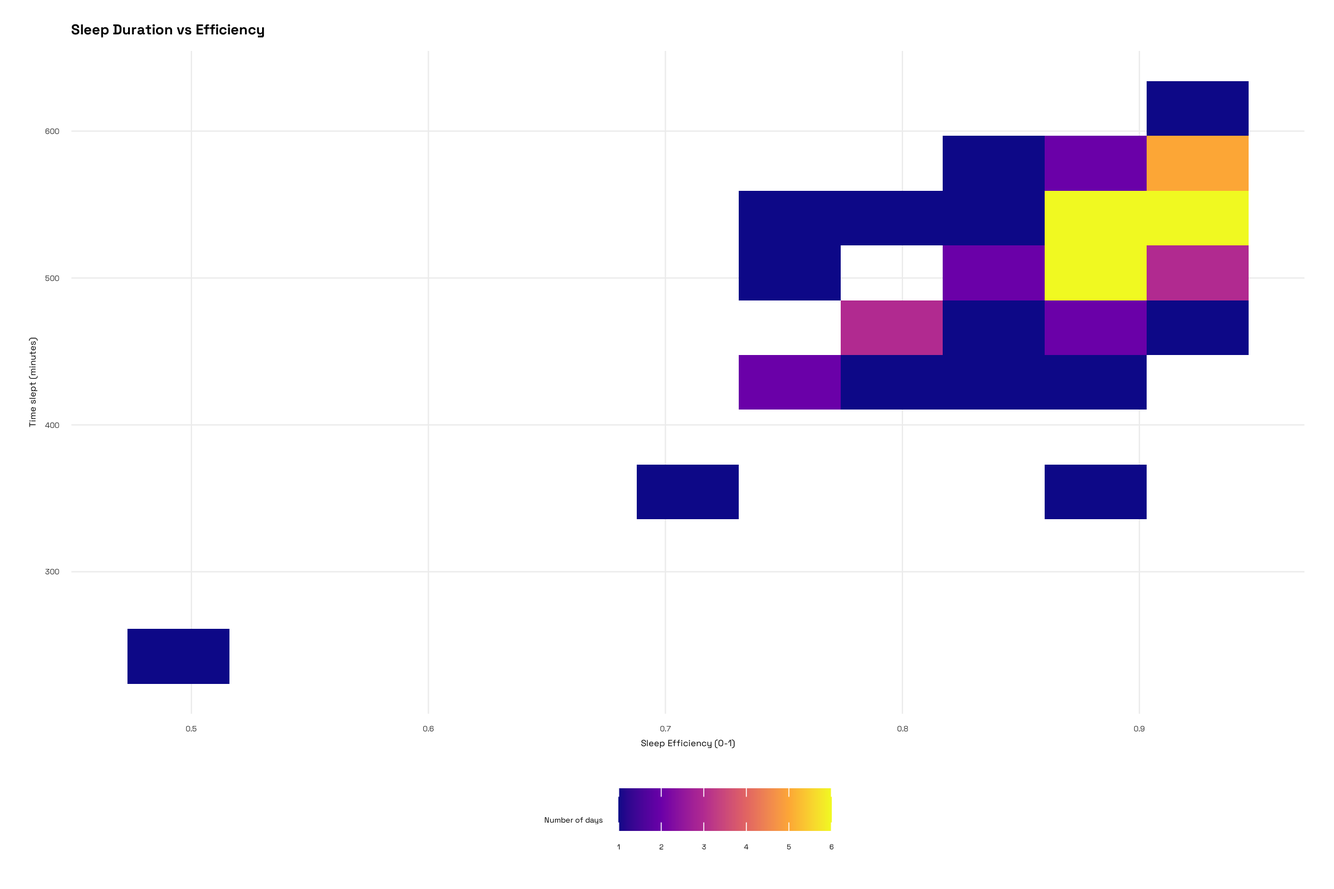
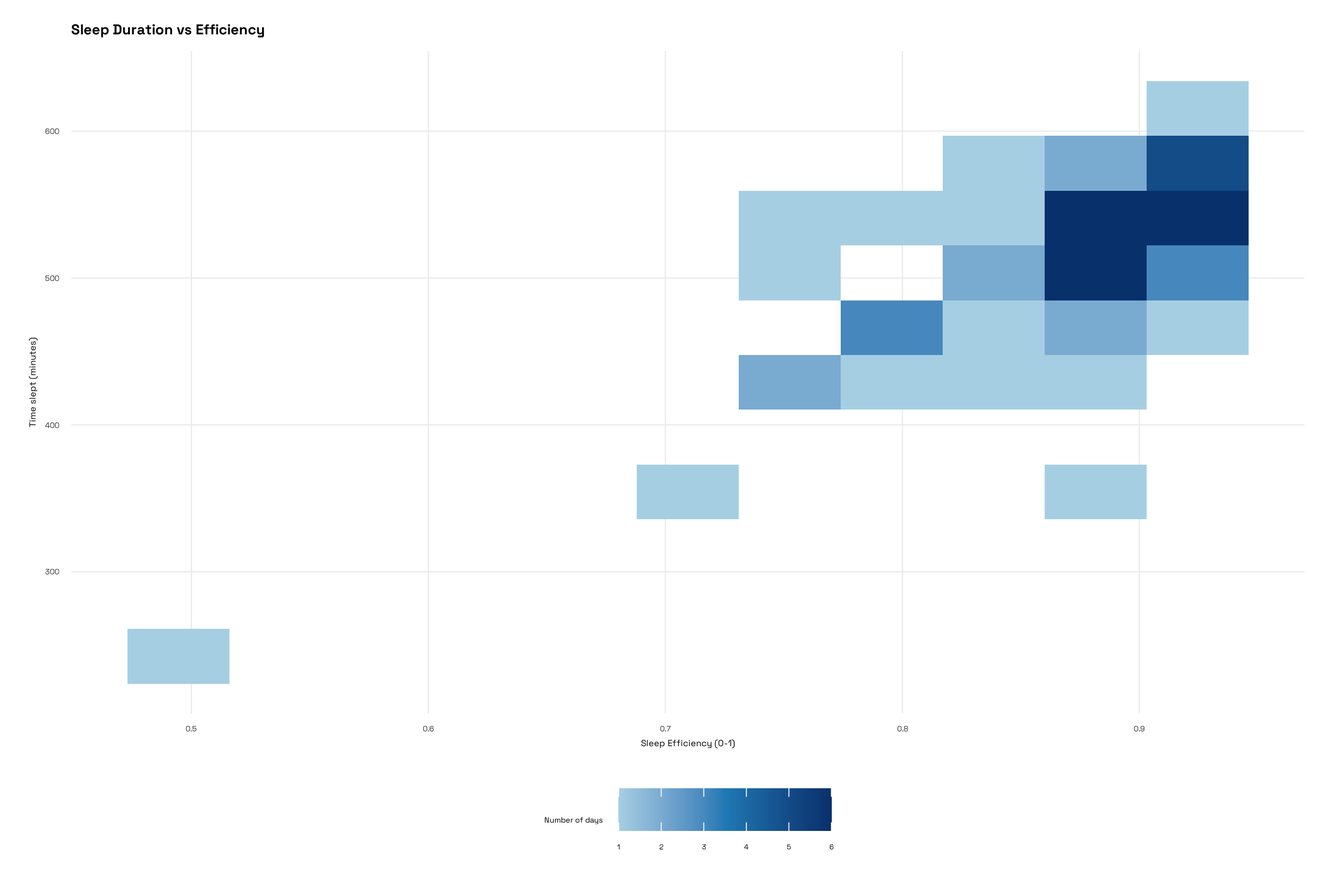
created custom color pallete

diff --git a/Code_files/my_code.html b/Code_files/my_code.html
@@ -183,33 +183,45 @@ pre > code.sourceCode > span > a:first-child::before { text-decoration: underlin
 <span id="cb4-6"><a href="#cb4-6" aria-hidden="true" tabindex="-1"></a><span class="co"># Activate showtext so ggplot can render fonts</span></span>
 <span id="cb4-7"><a href="#cb4-7" aria-hidden="true" tabindex="-1"></a><span class="fu">showtext_auto</span>()</span>
 <span id="cb4-8"><a href="#cb4-8" aria-hidden="true" tabindex="-1"></a></span>
-<span id="cb4-9"><a href="#cb4-9" aria-hidden="true" tabindex="-1"></a><span class="co"># Create a reusable base theme for all plots</span></span>
-<span id="cb4-10"><a href="#cb4-10" aria-hidden="true" tabindex="-1"></a>base_theme <span class="ot">&lt;-</span> <span class="fu">theme_minimal</span>(<span class="at">base_family =</span> <span class="st">"space"</span>) <span class="sc">+</span></span>
-<span id="cb4-11"><a href="#cb4-11" aria-hidden="true" tabindex="-1"></a>  <span class="fu">theme</span>(</span>
-<span id="cb4-12"><a href="#cb4-12" aria-hidden="true" tabindex="-1"></a>    <span class="co"># Main title styling </span></span>
-<span id="cb4-13"><a href="#cb4-13" aria-hidden="true" tabindex="-1"></a>    <span class="at">plot.title =</span> (<span class="fu">element_text</span>(<span class="at">face =</span> <span class="st">"bold"</span>, <span class="at">size =</span> <span class="dv">18</span>)),</span>
-<span id="cb4-14"><a href="#cb4-14" aria-hidden="true" tabindex="-1"></a>    <span class="co"># Subtitle styling</span></span>
-<span id="cb4-15"><a href="#cb4-15" aria-hidden="true" tabindex="-1"></a>    <span class="at">plot.subtitle =</span> <span class="fu">element_text</span>(<span class="at">size =</span> <span class="dv">11</span>, <span class="at">margin =</span> <span class="fu">margin</span>(<span class="at">b =</span> <span class="dv">8</span>)),</span>
-<span id="cb4-16"><a href="#cb4-16" aria-hidden="true" tabindex="-1"></a>    <span class="co"># Caption styling</span></span>
-<span id="cb4-17"><a href="#cb4-17" aria-hidden="true" tabindex="-1"></a>    <span class="at">plot.caption =</span> <span class="fu">element_text</span>(<span class="at">size =</span> <span class="dv">9</span>, <span class="at">color =</span> <span class="st">"gray30"</span>),</span>
-<span id="cb4-18"><a href="#cb4-18" aria-hidden="true" tabindex="-1"></a>    <span class="co"># Axis title styling</span></span>
-<span id="cb4-19"><a href="#cb4-19" aria-hidden="true" tabindex="-1"></a>    <span class="at">axis.title =</span> <span class="fu">element_text</span>(<span class="at">size =</span> <span class="dv">11</span>),</span>
-<span id="cb4-20"><a href="#cb4-20" aria-hidden="true" tabindex="-1"></a>    <span class="co"># Axis tick label styling</span></span>
-<span id="cb4-21"><a href="#cb4-21" aria-hidden="true" tabindex="-1"></a>    <span class="at">axis.text =</span> <span class="fu">element_text</span>(<span class="at">size =</span> <span class="dv">10</span>, <span class="at">color =</span> <span class="st">"gray20"</span>),</span>
-<span id="cb4-22"><a href="#cb4-22" aria-hidden="true" tabindex="-1"></a>    <span class="co"># Legend title styling</span></span>
-<span id="cb4-23"><a href="#cb4-23" aria-hidden="true" tabindex="-1"></a>    <span class="at">legend.title =</span> <span class="fu">element_text</span>(<span class="at">size =</span> <span class="dv">10</span>),</span>
-<span id="cb4-24"><a href="#cb4-24" aria-hidden="true" tabindex="-1"></a>    <span class="co"># Legend text styling</span></span>
-<span id="cb4-25"><a href="#cb4-25" aria-hidden="true" tabindex="-1"></a>    <span class="at">legend.text =</span> <span class="fu">element_text</span>(<span class="at">size =</span> <span class="dv">9</span>),</span>
-<span id="cb4-26"><a href="#cb4-26" aria-hidden="true" tabindex="-1"></a>    <span class="co"># Legend position</span></span>
-<span id="cb4-27"><a href="#cb4-27" aria-hidden="true" tabindex="-1"></a>    <span class="at">legend.position =</span> <span class="st">"bottom"</span>,</span>
-<span id="cb4-28"><a href="#cb4-28" aria-hidden="true" tabindex="-1"></a>    <span class="co"># Legend direction</span></span>
-<span id="cb4-29"><a href="#cb4-29" aria-hidden="true" tabindex="-1"></a>    <span class="at">legend.direction =</span> <span class="st">"horizontal"</span>,</span>
-<span id="cb4-30"><a href="#cb4-30" aria-hidden="true" tabindex="-1"></a>    <span class="co"># Removes minor grid lines</span></span>
-<span id="cb4-31"><a href="#cb4-31" aria-hidden="true" tabindex="-1"></a>    <span class="at">panel.grid.minor =</span> <span class="fu">element_blank</span>(),</span>
-<span id="cb4-32"><a href="#cb4-32" aria-hidden="true" tabindex="-1"></a>    <span class="co"># Keeps subtle major grid lines</span></span>
-<span id="cb4-33"><a href="#cb4-33" aria-hidden="true" tabindex="-1"></a>    <span class="at">panel.grid.major =</span> <span class="fu">element_line</span>(<span class="at">linewidth =</span> <span class="fl">0.25</span>, <span class="at">color =</span> <span class="st">"gray92"</span>),</span>
-<span id="cb4-34"><a href="#cb4-34" aria-hidden="true" tabindex="-1"></a>    <span class="co"># Adds margin around the edges of the plot</span></span>
-<span id="cb4-35"><a href="#cb4-35" aria-hidden="true" tabindex="-1"></a>    <span class="at">plot.margin =</span> <span class="fu">margin</span>(<span class="dv">10</span>, <span class="dv">12</span>, <span class="dv">10</span>, <span class="dv">12</span>))</span></code><button title="Copy to Clipboard" class="code-copy-button"><i class="bi"></i></button></pre></div>
+<span id="cb4-9"><a href="#cb4-9" aria-hidden="true" tabindex="-1"></a><span class="co"># Creates custom gradient palette (used for stress, bins, heatmaps)</span></span>
+<span id="cb4-10"><a href="#cb4-10" aria-hidden="true" tabindex="-1"></a>palette_gradient <span class="ot">&lt;-</span> <span class="fu">c</span>(</span>
+<span id="cb4-11"><a href="#cb4-11" aria-hidden="true" tabindex="-1"></a>  <span class="st">"#A6CEE3"</span>,  <span class="co"># light blue</span></span>
+<span id="cb4-12"><a href="#cb4-12" aria-hidden="true" tabindex="-1"></a>  <span class="st">"#1F78B4"</span>,  <span class="co"># medium blue</span></span>
+<span id="cb4-13"><a href="#cb4-13" aria-hidden="true" tabindex="-1"></a>  <span class="st">"#08306B"</span>   <span class="co"># deep blue</span></span>
+<span id="cb4-14"><a href="#cb4-14" aria-hidden="true" tabindex="-1"></a>)</span>
+<span id="cb4-15"><a href="#cb4-15" aria-hidden="true" tabindex="-1"></a>palette_gradientA <span class="ot">&lt;-</span> <span class="fu">c</span>(</span>
+<span id="cb4-16"><a href="#cb4-16" aria-hidden="true" tabindex="-1"></a>  <span class="st">"#F7F7F7"</span>,  <span class="co"># very light</span></span>
+<span id="cb4-17"><a href="#cb4-17" aria-hidden="true" tabindex="-1"></a>  <span class="st">"#A6CEE3"</span>,  <span class="co"># light blue</span></span>
+<span id="cb4-18"><a href="#cb4-18" aria-hidden="true" tabindex="-1"></a>  <span class="st">"#1F78B4"</span>,  <span class="co"># medium blue</span></span>
+<span id="cb4-19"><a href="#cb4-19" aria-hidden="true" tabindex="-1"></a>  <span class="st">"#08306B"</span>   <span class="co"># deep blue</span></span>
+<span id="cb4-20"><a href="#cb4-20" aria-hidden="true" tabindex="-1"></a>)</span>
+<span id="cb4-21"><a href="#cb4-21" aria-hidden="true" tabindex="-1"></a><span class="co"># Create a reusable base theme for all plots</span></span>
+<span id="cb4-22"><a href="#cb4-22" aria-hidden="true" tabindex="-1"></a>base_theme <span class="ot">&lt;-</span> <span class="fu">theme_minimal</span>(<span class="at">base_family =</span> <span class="st">"space"</span>) <span class="sc">+</span></span>
+<span id="cb4-23"><a href="#cb4-23" aria-hidden="true" tabindex="-1"></a>  <span class="fu">theme</span>(</span>
+<span id="cb4-24"><a href="#cb4-24" aria-hidden="true" tabindex="-1"></a>    <span class="co"># Main title styling </span></span>
+<span id="cb4-25"><a href="#cb4-25" aria-hidden="true" tabindex="-1"></a>    <span class="at">plot.title =</span> (<span class="fu">element_text</span>(<span class="at">face =</span> <span class="st">"bold"</span>, <span class="at">size =</span> <span class="dv">18</span>)),</span>
+<span id="cb4-26"><a href="#cb4-26" aria-hidden="true" tabindex="-1"></a>    <span class="co"># Subtitle styling</span></span>
+<span id="cb4-27"><a href="#cb4-27" aria-hidden="true" tabindex="-1"></a>    <span class="at">plot.subtitle =</span> <span class="fu">element_text</span>(<span class="at">size =</span> <span class="dv">11</span>, <span class="at">margin =</span> <span class="fu">margin</span>(<span class="at">b =</span> <span class="dv">8</span>)),</span>
+<span id="cb4-28"><a href="#cb4-28" aria-hidden="true" tabindex="-1"></a>    <span class="co"># Caption styling</span></span>
+<span id="cb4-29"><a href="#cb4-29" aria-hidden="true" tabindex="-1"></a>    <span class="at">plot.caption =</span> <span class="fu">element_text</span>(<span class="at">size =</span> <span class="dv">9</span>, <span class="at">color =</span> <span class="st">"gray30"</span>),</span>
+<span id="cb4-30"><a href="#cb4-30" aria-hidden="true" tabindex="-1"></a>    <span class="co"># Axis title styling</span></span>
+<span id="cb4-31"><a href="#cb4-31" aria-hidden="true" tabindex="-1"></a>    <span class="at">axis.title =</span> <span class="fu">element_text</span>(<span class="at">size =</span> <span class="dv">11</span>),</span>
+<span id="cb4-32"><a href="#cb4-32" aria-hidden="true" tabindex="-1"></a>    <span class="co"># Axis tick label styling</span></span>
+<span id="cb4-33"><a href="#cb4-33" aria-hidden="true" tabindex="-1"></a>    <span class="at">axis.text =</span> <span class="fu">element_text</span>(<span class="at">size =</span> <span class="dv">10</span>, <span class="at">color =</span> <span class="st">"gray20"</span>),</span>
+<span id="cb4-34"><a href="#cb4-34" aria-hidden="true" tabindex="-1"></a>    <span class="co"># Legend title styling</span></span>
+<span id="cb4-35"><a href="#cb4-35" aria-hidden="true" tabindex="-1"></a>    <span class="at">legend.title =</span> <span class="fu">element_text</span>(<span class="at">size =</span> <span class="dv">10</span>),</span>
+<span id="cb4-36"><a href="#cb4-36" aria-hidden="true" tabindex="-1"></a>    <span class="co"># Legend text styling</span></span>
+<span id="cb4-37"><a href="#cb4-37" aria-hidden="true" tabindex="-1"></a>    <span class="at">legend.text =</span> <span class="fu">element_text</span>(<span class="at">size =</span> <span class="dv">9</span>),</span>
+<span id="cb4-38"><a href="#cb4-38" aria-hidden="true" tabindex="-1"></a>    <span class="co"># Legend position</span></span>
+<span id="cb4-39"><a href="#cb4-39" aria-hidden="true" tabindex="-1"></a>    <span class="at">legend.position =</span> <span class="st">"bottom"</span>,</span>
+<span id="cb4-40"><a href="#cb4-40" aria-hidden="true" tabindex="-1"></a>    <span class="co"># Legend direction</span></span>
+<span id="cb4-41"><a href="#cb4-41" aria-hidden="true" tabindex="-1"></a>    <span class="at">legend.direction =</span> <span class="st">"horizontal"</span>,</span>
+<span id="cb4-42"><a href="#cb4-42" aria-hidden="true" tabindex="-1"></a>    <span class="co"># Removes minor grid lines</span></span>
+<span id="cb4-43"><a href="#cb4-43" aria-hidden="true" tabindex="-1"></a>    <span class="at">panel.grid.minor =</span> <span class="fu">element_blank</span>(),</span>
+<span id="cb4-44"><a href="#cb4-44" aria-hidden="true" tabindex="-1"></a>    <span class="co"># Keeps subtle major grid lines</span></span>
+<span id="cb4-45"><a href="#cb4-45" aria-hidden="true" tabindex="-1"></a>    <span class="at">panel.grid.major =</span> <span class="fu">element_line</span>(<span class="at">linewidth =</span> <span class="fl">0.25</span>, <span class="at">color =</span> <span class="st">"gray92"</span>),</span>
+<span id="cb4-46"><a href="#cb4-46" aria-hidden="true" tabindex="-1"></a>    <span class="co"># Adds margin around the edges of the plot</span></span>
+<span id="cb4-47"><a href="#cb4-47" aria-hidden="true" tabindex="-1"></a>    <span class="at">plot.margin =</span> <span class="fu">margin</span>(<span class="dv">10</span>, <span class="dv">12</span>, <span class="dv">10</span>, <span class="dv">12</span>))</span></code><button title="Copy to Clipboard" class="code-copy-button"><i class="bi"></i></button></pre></div>
 </div>
 <section id="plot-1-boxplot-jitter-sleep-by-day-of-week" class="level1">
 <h1>Plot 1: Boxplot + jitter (Sleep by day of week)</h1>
@@ -321,15 +333,16 @@ pre > code.sourceCode > span > a:first-child::before { text-decoration: underlin
 <span id="cb7-3"><a href="#cb7-3" aria-hidden="true" tabindex="-1"></a>         <span class="fu">aes</span>(<span class="at">x =</span> sleep_efficiency, <span class="co"># x-axis is continuous predictor (weekday)</span></span>
 <span id="cb7-4"><a href="#cb7-4" aria-hidden="true" tabindex="-1"></a>             <span class="at">y =</span> time_slept_minutes)) <span class="sc">+</span> <span class="co"># y-axis is response (sleep duration)</span></span>
 <span id="cb7-5"><a href="#cb7-5" aria-hidden="true" tabindex="-1"></a>  <span class="fu">geom_bin2d</span>(<span class="at">bins =</span> <span class="dv">10</span>) <span class="sc">+</span>   <span class="co"># Create rectangular bins instead of individual points </span></span>
-<span id="cb7-6"><a href="#cb7-6" aria-hidden="true" tabindex="-1"></a>  <span class="fu">scale_fill_viridis_c</span>(<span class="at">name =</span> <span class="st">"Number of days"</span>, <span class="co"># creates legend title </span></span>
-<span id="cb7-7"><a href="#cb7-7" aria-hidden="true" tabindex="-1"></a>                       <span class="at">option =</span> <span class="st">"C"</span>) <span class="sc">+</span> <span class="co"># colors by cohesive color-scheme</span></span>
-<span id="cb7-8"><a href="#cb7-8" aria-hidden="true" tabindex="-1"></a>  <span class="fu">labs</span>(</span>
-<span id="cb7-9"><a href="#cb7-9" aria-hidden="true" tabindex="-1"></a>    <span class="at">title =</span> <span class="st">"Sleep Duration vs Efficiency"</span>, <span class="co"># sets plot title</span></span>
-<span id="cb7-10"><a href="#cb7-10" aria-hidden="true" tabindex="-1"></a>    <span class="at">x =</span> <span class="st">"Sleep Efficiency (0-1)"</span>, <span class="co"># sets x-axis title</span></span>
-<span id="cb7-11"><a href="#cb7-11" aria-hidden="true" tabindex="-1"></a>    <span class="at">y =</span> <span class="st">"Time slept (minutes)"</span>) <span class="sc">+</span> <span class="co"># sets y-axis title</span></span>
-<span id="cb7-12"><a href="#cb7-12" aria-hidden="true" tabindex="-1"></a>  base_theme <span class="co"># uses preset base theme</span></span>
-<span id="cb7-13"><a href="#cb7-13" aria-hidden="true" tabindex="-1"></a></span>
-<span id="cb7-14"><a href="#cb7-14" aria-hidden="true" tabindex="-1"></a>p2_sleep_scatter <span class="co"># shows plot 2</span></span></code><button title="Copy to Clipboard" class="code-copy-button"><i class="bi"></i></button></pre></div>
+<span id="cb7-6"><a href="#cb7-6" aria-hidden="true" tabindex="-1"></a>  <span class="fu">scale_fill_gradientn</span>(</span>
+<span id="cb7-7"><a href="#cb7-7" aria-hidden="true" tabindex="-1"></a>    <span class="at">colours =</span> palette_gradient,</span>
+<span id="cb7-8"><a href="#cb7-8" aria-hidden="true" tabindex="-1"></a>    <span class="at">name =</span> <span class="st">"Number of days"</span>)<span class="sc">+</span> <span class="co"># creates legend title </span></span>
+<span id="cb7-9"><a href="#cb7-9" aria-hidden="true" tabindex="-1"></a>  <span class="fu">labs</span>(</span>
+<span id="cb7-10"><a href="#cb7-10" aria-hidden="true" tabindex="-1"></a>    <span class="at">title =</span> <span class="st">"Sleep Duration vs Efficiency"</span>, <span class="co"># sets plot title</span></span>
+<span id="cb7-11"><a href="#cb7-11" aria-hidden="true" tabindex="-1"></a>    <span class="at">x =</span> <span class="st">"Sleep Efficiency (0-1)"</span>, <span class="co"># sets x-axis title</span></span>
+<span id="cb7-12"><a href="#cb7-12" aria-hidden="true" tabindex="-1"></a>    <span class="at">y =</span> <span class="st">"Time slept (minutes)"</span>) <span class="sc">+</span> <span class="co"># sets y-axis title</span></span>
+<span id="cb7-13"><a href="#cb7-13" aria-hidden="true" tabindex="-1"></a>  base_theme <span class="co"># uses preset base theme</span></span>
+<span id="cb7-14"><a href="#cb7-14" aria-hidden="true" tabindex="-1"></a></span>
+<span id="cb7-15"><a href="#cb7-15" aria-hidden="true" tabindex="-1"></a>p2_sleep_scatter <span class="co"># shows plot 2</span></span></code><button title="Copy to Clipboard" class="code-copy-button"><i class="bi"></i></button></pre></div>
 <div class="cell-output-display">
 <div>
 <figure class="figure">
@@ -394,15 +407,15 @@ pre > code.sourceCode > span > a:first-child::before { text-decoration: underlin
 <span id="cb9-48"><a href="#cb9-48" aria-hidden="true" tabindex="-1"></a>  <span class="fu">geom_tile</span>( <span class="co"># Draw rectangular tiles for each date (in LOW range)</span></span>
 <span id="cb9-49"><a href="#cb9-49" aria-hidden="true" tabindex="-1"></a>    <span class="at">data =</span> cleaned_data_cal <span class="co"># uses cleaned data</span></span>
 <span id="cb9-50"><a href="#cb9-50" aria-hidden="true" tabindex="-1"></a>      <span class="sc">|&gt;</span> <span class="fu">filter</span>(low_sleep_flag <span class="sc">==</span> <span class="st">"Extreme low sleep"</span>), <span class="co"># filters to outliers</span></span>
-<span id="cb9-51"><a href="#cb9-51" aria-hidden="true" tabindex="-1"></a>    <span class="at">fill =</span> <span class="st">'green'</span>, <span class="co"># colors outliers green</span></span>
+<span id="cb9-51"><a href="#cb9-51" aria-hidden="true" tabindex="-1"></a>    <span class="at">fill =</span> <span class="st">'green3'</span>, <span class="co"># colors outliers green</span></span>
 <span id="cb9-52"><a href="#cb9-52" aria-hidden="true" tabindex="-1"></a>    <span class="at">color =</span> <span class="st">"white"</span>, <span class="co"># makes white borders between tiles</span></span>
 <span id="cb9-53"><a href="#cb9-53" aria-hidden="true" tabindex="-1"></a>    <span class="at">width =</span> <span class="fl">6.5</span>, <span class="co"># sets tile width</span></span>
 <span id="cb9-54"><a href="#cb9-54" aria-hidden="true" tabindex="-1"></a>    <span class="at">height =</span> <span class="fl">0.95</span>, <span class="co"># sets tile height</span></span>
 <span id="cb9-55"><a href="#cb9-55" aria-hidden="true" tabindex="-1"></a>    <span class="at">linewidth =</span> <span class="fl">0.6</span>) <span class="sc">+</span> <span class="co"># sets thickness of tile borders</span></span>
 <span id="cb9-56"><a href="#cb9-56" aria-hidden="true" tabindex="-1"></a>  <span class="fu">scale_x_date</span>(<span class="at">date_labels =</span> <span class="st">"%b %d"</span>) <span class="sc">+</span> <span class="co"># display axis format like "Jan 09"</span></span>
-<span id="cb9-57"><a href="#cb9-57" aria-hidden="true" tabindex="-1"></a>  <span class="fu">scale_fill_viridis_c</span>( <span class="co"># Define color gradient for sleep duration</span></span>
-<span id="cb9-58"><a href="#cb9-58" aria-hidden="true" tabindex="-1"></a>    <span class="at">name =</span> <span class="st">"Sleep Duration (min)"</span>, <span class="co"># sets legend title</span></span>
-<span id="cb9-59"><a href="#cb9-59" aria-hidden="true" tabindex="-1"></a>    <span class="at">option =</span> <span class="st">"C"</span>, <span class="co"># colors by cohesive color-scheme</span></span>
+<span id="cb9-57"><a href="#cb9-57" aria-hidden="true" tabindex="-1"></a>  <span class="fu">scale_fill_gradientn</span>(</span>
+<span id="cb9-58"><a href="#cb9-58" aria-hidden="true" tabindex="-1"></a>    <span class="at">colors =</span> palette_gradientA, <span class="co"># Define color gradient for sleep duration</span></span>
+<span id="cb9-59"><a href="#cb9-59" aria-hidden="true" tabindex="-1"></a>    <span class="at">name =</span> <span class="st">"Sleep Duration (min)"</span>, <span class="co"># sets legend title</span></span>
 <span id="cb9-60"><a href="#cb9-60" aria-hidden="true" tabindex="-1"></a>    <span class="at">limits =</span> <span class="fu">c</span>(sleep_range<span class="sc">$</span>min_sleep, <span class="co"># sets upper limit for scale</span></span>
 <span id="cb9-61"><a href="#cb9-61" aria-hidden="true" tabindex="-1"></a>               sleep_range<span class="sc">$</span>max_sleep)) <span class="sc">+</span> <span class="co"># sets lower limit for scale</span></span>
 <span id="cb9-62"><a href="#cb9-62" aria-hidden="true" tabindex="-1"></a>  <span class="co"># flips axis so Monday appears at top of heatmap</span></span>
@@ -458,20 +471,21 @@ pre > code.sourceCode > span > a:first-child::before { text-decoration: underlin
 <span id="cb11-24"><a href="#cb11-24" aria-hidden="true" tabindex="-1"></a>  <span class="fu">geom_point</span>( <span class="co"># creates outlier point excluded from color-scale</span></span>
 <span id="cb11-25"><a href="#cb11-25" aria-hidden="true" tabindex="-1"></a>    <span class="at">data =</span> cleaned_data_bubble <span class="co"># uses altered data for bubble plot</span></span>
 <span id="cb11-26"><a href="#cb11-26" aria-hidden="true" tabindex="-1"></a>      <span class="sc">|&gt;</span> <span class="fu">filter</span>(sleep_outlier_flag), <span class="co"># selects only outlier</span></span>
-<span id="cb11-27"><a href="#cb11-27" aria-hidden="true" tabindex="-1"></a>    <span class="at">color =</span> <span class="st">"cyan"</span>, <span class="co"># colors outlier blue</span></span>
+<span id="cb11-27"><a href="#cb11-27" aria-hidden="true" tabindex="-1"></a>    <span class="at">color =</span> <span class="st">"green3"</span>, <span class="co"># colors outlier blue</span></span>
 <span id="cb11-28"><a href="#cb11-28" aria-hidden="true" tabindex="-1"></a>    <span class="at">size =</span> <span class="dv">3</span>) <span class="sc">+</span> <span class="co"># sets size to 3</span></span>
 <span id="cb11-29"><a href="#cb11-29" aria-hidden="true" tabindex="-1"></a>  <span class="fu">scale_x_continuous</span>(<span class="at">labels =</span> comma) <span class="sc">+</span> <span class="co"># formats x-axis with commas</span></span>
-<span id="cb11-30"><a href="#cb11-30" aria-hidden="true" tabindex="-1"></a>  <span class="fu">scale_color_viridis_c</span>(</span>
-<span id="cb11-31"><a href="#cb11-31" aria-hidden="true" tabindex="-1"></a>    <span class="at">name =</span> <span class="st">"Time stressed (min)"</span>,</span>
-<span id="cb11-32"><a href="#cb11-32" aria-hidden="true" tabindex="-1"></a>    <span class="at">option =</span> <span class="st">"C"</span>,</span>
-<span id="cb11-33"><a href="#cb11-33" aria-hidden="true" tabindex="-1"></a>    <span class="at">limits =</span> <span class="fu">c</span>(stress_limits<span class="sc">$</span>min_stress, stress_limits<span class="sc">$</span>max_stress)) <span class="sc">+</span></span>
-<span id="cb11-34"><a href="#cb11-34" aria-hidden="true" tabindex="-1"></a>  <span class="fu">labs</span>(<span class="at">title =</span> <span class="st">"Steps vs Sleep (Colored by Time Stressed)"</span>, <span class="co"># sets title</span></span>
-<span id="cb11-35"><a href="#cb11-35" aria-hidden="true" tabindex="-1"></a>    <span class="at">caption =</span> <span class="st">"Blue point = low-sleep outlier"</span>, <span class="co"># creates caption</span></span>
-<span id="cb11-36"><a href="#cb11-36" aria-hidden="true" tabindex="-1"></a>    <span class="at">x =</span> <span class="st">"Steps"</span>, <span class="co"># sets x-axis title</span></span>
-<span id="cb11-37"><a href="#cb11-37" aria-hidden="true" tabindex="-1"></a>    <span class="at">y =</span> <span class="st">"Time stressed (minutes)"</span>) <span class="sc">+</span> <span class="co"># sets y-axis title</span></span>
-<span id="cb11-38"><a href="#cb11-38" aria-hidden="true" tabindex="-1"></a>  base_theme <span class="co"># uses base theme</span></span>
-<span id="cb11-39"><a href="#cb11-39" aria-hidden="true" tabindex="-1"></a></span>
-<span id="cb11-40"><a href="#cb11-40" aria-hidden="true" tabindex="-1"></a>p4_bubble <span class="co"># shows plot 4</span></span></code><button title="Copy to Clipboard" class="code-copy-button"><i class="bi"></i></button></pre></div>
+<span id="cb11-30"><a href="#cb11-30" aria-hidden="true" tabindex="-1"></a>  <span class="fu">scale_color_gradientn</span>(</span>
+<span id="cb11-31"><a href="#cb11-31" aria-hidden="true" tabindex="-1"></a>    <span class="at">colors =</span> palette_gradientA, <span class="co"># custom gradient colors</span></span>
+<span id="cb11-32"><a href="#cb11-32" aria-hidden="true" tabindex="-1"></a>    <span class="at">name =</span> <span class="st">"Time stressed (min)"</span>, <span class="co"># legend title</span></span>
+<span id="cb11-33"><a href="#cb11-33" aria-hidden="true" tabindex="-1"></a>    <span class="at">limits =</span> <span class="fu">c</span>(stress_limits<span class="sc">$</span>min_stress, <span class="co"># sets min limit </span></span>
+<span id="cb11-34"><a href="#cb11-34" aria-hidden="true" tabindex="-1"></a>               stress_limits<span class="sc">$</span>max_stress)) <span class="sc">+</span> <span class="co"># sets max limit </span></span>
+<span id="cb11-35"><a href="#cb11-35" aria-hidden="true" tabindex="-1"></a>  <span class="fu">labs</span>(<span class="at">title =</span> <span class="st">"Steps vs Sleep (Colored by Time Stressed)"</span>, <span class="co"># sets title</span></span>
+<span id="cb11-36"><a href="#cb11-36" aria-hidden="true" tabindex="-1"></a>    <span class="at">caption =</span> <span class="st">"Green point = low-sleep outlier"</span>, <span class="co"># creates caption</span></span>
+<span id="cb11-37"><a href="#cb11-37" aria-hidden="true" tabindex="-1"></a>    <span class="at">x =</span> <span class="st">"Steps"</span>, <span class="co"># sets x-axis title</span></span>
+<span id="cb11-38"><a href="#cb11-38" aria-hidden="true" tabindex="-1"></a>    <span class="at">y =</span> <span class="st">"Time stressed (minutes)"</span>) <span class="sc">+</span> <span class="co"># sets y-axis title</span></span>
+<span id="cb11-39"><a href="#cb11-39" aria-hidden="true" tabindex="-1"></a>  base_theme <span class="co"># uses base theme</span></span>
+<span id="cb11-40"><a href="#cb11-40" aria-hidden="true" tabindex="-1"></a></span>
+<span id="cb11-41"><a href="#cb11-41" aria-hidden="true" tabindex="-1"></a>p4_bubble <span class="co"># shows plot 4</span></span></code><button title="Copy to Clipboard" class="code-copy-button"><i class="bi"></i></button></pre></div>
 <div class="cell-output-display">
 <div>
 <figure class="figure">
@@ -508,30 +522,32 @@ pre > code.sourceCode > span > a:first-child::before { text-decoration: underlin
 <span id="cb13-20"><a href="#cb13-20" aria-hidden="true" tabindex="-1"></a>    <span class="at">linewidth =</span> <span class="fl">0.8</span>) <span class="sc">+</span> <span class="co"># sets line width</span></span>
 <span id="cb13-21"><a href="#cb13-21" aria-hidden="true" tabindex="-1"></a>  <span class="fu">geom_segment</span>( <span class="co"># adds vertical lollipop stems from 400 up to group mean</span></span>
 <span id="cb13-22"><a href="#cb13-22" aria-hidden="true" tabindex="-1"></a>    <span class="fu">aes</span>(<span class="at">xend =</span> <span class="fu">factor</span>(hours_worked), <span class="co"># keeps same x-position as point</span></span>
-<span id="cb13-23"><a href="#cb13-23" aria-hidden="true" tabindex="-1"></a>        <span class="at">y =</span> <span class="dv">400</span>, <span class="co"># line starts at 400 min</span></span>
+<span id="cb13-23"><a href="#cb13-23" aria-hidden="true" tabindex="-1"></a>        <span class="at">y =</span> <span class="dv">0</span>, <span class="co"># line starts at 0 min</span></span>
 <span id="cb13-24"><a href="#cb13-24" aria-hidden="true" tabindex="-1"></a>        <span class="at">yend =</span> mean_sleep), <span class="co"># line ends at mean for the group</span></span>
 <span id="cb13-25"><a href="#cb13-25" aria-hidden="true" tabindex="-1"></a>    <span class="at">linewidth =</span> <span class="fl">1.1</span>) <span class="sc">+</span> <span class="co"># sets line width</span></span>
 <span id="cb13-26"><a href="#cb13-26" aria-hidden="true" tabindex="-1"></a>  <span class="fu">geom_point</span>(<span class="at">size =</span> <span class="dv">4</span>) <span class="sc">+</span> <span class="co"># sets size of points (at mean for group)</span></span>
 <span id="cb13-27"><a href="#cb13-27" aria-hidden="true" tabindex="-1"></a>  <span class="fu">geom_text</span>(</span>
-<span id="cb13-28"><a href="#cb13-28" aria-hidden="true" tabindex="-1"></a>    <span class="fu">aes</span>(<span class="at">label =</span> <span class="fu">paste0</span>(<span class="st">"n="</span>, n_days)), <span class="co"># labels each point would # obs in group</span></span>
+<span id="cb13-28"><a href="#cb13-28" aria-hidden="true" tabindex="-1"></a>    <span class="fu">aes</span>(<span class="at">label =</span> <span class="fu">paste0</span>(<span class="st">"n="</span>, n_days)),  <span class="co"># labels each point with # obs in group</span></span>
 <span id="cb13-29"><a href="#cb13-29" aria-hidden="true" tabindex="-1"></a>    <span class="at">vjust =</span> <span class="sc">-</span><span class="fl">1.2</span>, <span class="co"># positions label</span></span>
-<span id="cb13-30"><a href="#cb13-30" aria-hidden="true" tabindex="-1"></a>    <span class="at">size =</span> <span class="fl">3.3</span>) <span class="sc">+</span> <span class="co"># sets size of label</span></span>
-<span id="cb13-31"><a href="#cb13-31" aria-hidden="true" tabindex="-1"></a>  <span class="fu">geom_label</span>(<span class="at">data =</span> highlight_work, <span class="co">#adds label highlighting highest mean</span></span>
-<span id="cb13-32"><a href="#cb13-32" aria-hidden="true" tabindex="-1"></a>    <span class="fu">aes</span>(<span class="at">x =</span> <span class="fu">as.numeric</span>(<span class="fu">factor</span>(hours_worked)), <span class="co"># sets x-axis position</span></span>
-<span id="cb13-33"><a href="#cb13-33" aria-hidden="true" tabindex="-1"></a>      <span class="at">y =</span> mean_sleep <span class="sc">+</span> <span class="dv">15</span>, <span class="co"># sets y-axis position</span></span>
-<span id="cb13-34"><a href="#cb13-34" aria-hidden="true" tabindex="-1"></a>      <span class="co"># writes label text</span></span>
-<span id="cb13-35"><a href="#cb13-35" aria-hidden="true" tabindex="-1"></a>      <span class="at">label =</span> <span class="fu">paste0</span>(<span class="st">"Highest average sleep</span><span class="sc">\n</span><span class="st"> ( worked "</span>, hours_worked, <span class="st">" hrs)"</span>)), </span>
-<span id="cb13-36"><a href="#cb13-36" aria-hidden="true" tabindex="-1"></a>    <span class="at">size =</span> <span class="fl">3.3</span>, <span class="co"># sets text size</span></span>
-<span id="cb13-37"><a href="#cb13-37" aria-hidden="true" tabindex="-1"></a>    <span class="at">label.size =</span> <span class="fl">0.2</span>, <span class="co"># sets border sizze</span></span>
-<span id="cb13-38"><a href="#cb13-38" aria-hidden="true" tabindex="-1"></a>    <span class="at">inherit.aes =</span> <span class="cn">FALSE</span>) <span class="sc">+</span> <span class="co"># prevents inheriting global aesthetics</span></span>
-<span id="cb13-39"><a href="#cb13-39" aria-hidden="true" tabindex="-1"></a>  <span class="fu">labs</span>(</span>
-<span id="cb13-40"><a href="#cb13-40" aria-hidden="true" tabindex="-1"></a>    <span class="at">title =</span> <span class="st">"Average Sleep Duration by Hours Worked"</span>, <span class="co"># sets title</span></span>
-<span id="cb13-41"><a href="#cb13-41" aria-hidden="true" tabindex="-1"></a>    <span class="at">subtitle =</span> <span class="st">"Group means; labels show number of days per group"</span>, <span class="co"># sets subtitle</span></span>
-<span id="cb13-42"><a href="#cb13-42" aria-hidden="true" tabindex="-1"></a>    <span class="at">x =</span> <span class="st">"Hours worked"</span>, <span class="co"># sets x-axis title</span></span>
-<span id="cb13-43"><a href="#cb13-43" aria-hidden="true" tabindex="-1"></a>    <span class="at">y =</span> <span class="st">"Mean time slept (minutes)"</span>) <span class="sc">+</span> <span class="co"># sets y-axis title</span></span>
-<span id="cb13-44"><a href="#cb13-44" aria-hidden="true" tabindex="-1"></a>  base_theme <span class="co"># uses base theme</span></span>
-<span id="cb13-45"><a href="#cb13-45" aria-hidden="true" tabindex="-1"></a></span>
-<span id="cb13-46"><a href="#cb13-46" aria-hidden="true" tabindex="-1"></a>p5_lollipop <span class="co"># shows plot 5</span></span></code><button title="Copy to Clipboard" class="code-copy-button"><i class="bi"></i></button></pre></div>
+<span id="cb13-30"><a href="#cb13-30" aria-hidden="true" tabindex="-1"></a>    <span class="at">size =</span> <span class="fl">3.2</span>, <span class="co"># sets size of label</span></span>
+<span id="cb13-31"><a href="#cb13-31" aria-hidden="true" tabindex="-1"></a>    <span class="at">family =</span> <span class="st">"space"</span>)<span class="sc">+</span> <span class="co"># sets font family</span></span>
+<span id="cb13-32"><a href="#cb13-32" aria-hidden="true" tabindex="-1"></a>  <span class="fu">geom_label</span>(<span class="at">data =</span> highlight_work, <span class="co">#adds label highlighting highest mean</span></span>
+<span id="cb13-33"><a href="#cb13-33" aria-hidden="true" tabindex="-1"></a>    <span class="fu">aes</span>(<span class="at">x =</span> <span class="fu">as.numeric</span>(<span class="fu">factor</span>(hours_worked)), <span class="co"># sets x-axis position</span></span>
+<span id="cb13-34"><a href="#cb13-34" aria-hidden="true" tabindex="-1"></a>      <span class="at">y =</span> mean_sleep <span class="sc">+</span> <span class="dv">15</span>, <span class="co"># sets y-axis position</span></span>
+<span id="cb13-35"><a href="#cb13-35" aria-hidden="true" tabindex="-1"></a>      <span class="co"># writes label text</span></span>
+<span id="cb13-36"><a href="#cb13-36" aria-hidden="true" tabindex="-1"></a>      <span class="at">label =</span> <span class="fu">paste0</span>(<span class="st">"Highest average sleep</span><span class="sc">\n</span><span class="st"> ( worked "</span>, hours_worked, <span class="st">" hrs)"</span>)), </span>
+<span id="cb13-37"><a href="#cb13-37" aria-hidden="true" tabindex="-1"></a>    <span class="at">size =</span> <span class="fl">3.2</span>, <span class="co"># sets text size</span></span>
+<span id="cb13-38"><a href="#cb13-38" aria-hidden="true" tabindex="-1"></a>    <span class="at">family =</span> <span class="st">'space'</span>,</span>
+<span id="cb13-39"><a href="#cb13-39" aria-hidden="true" tabindex="-1"></a>    <span class="at">label.size =</span> <span class="fl">0.2</span>, <span class="co"># sets border size</span></span>
+<span id="cb13-40"><a href="#cb13-40" aria-hidden="true" tabindex="-1"></a>    <span class="at">inherit.aes =</span> <span class="cn">FALSE</span>) <span class="sc">+</span> <span class="co"># prevents inheriting global aesthetics</span></span>
+<span id="cb13-41"><a href="#cb13-41" aria-hidden="true" tabindex="-1"></a>  <span class="fu">labs</span>(</span>
+<span id="cb13-42"><a href="#cb13-42" aria-hidden="true" tabindex="-1"></a>    <span class="at">title =</span> <span class="st">"Average Sleep by Hours Worked"</span>, <span class="co"># sets title</span></span>
+<span id="cb13-43"><a href="#cb13-43" aria-hidden="true" tabindex="-1"></a>    <span class="at">subtitle =</span> <span class="st">"Group means; labels show number of days per group"</span>, <span class="co"># sets subtitle</span></span>
+<span id="cb13-44"><a href="#cb13-44" aria-hidden="true" tabindex="-1"></a>    <span class="at">x =</span> <span class="st">"Hours worked"</span>, <span class="co"># sets x-axis title</span></span>
+<span id="cb13-45"><a href="#cb13-45" aria-hidden="true" tabindex="-1"></a>    <span class="at">y =</span> <span class="st">"Mean time slept (minutes)"</span>) <span class="sc">+</span> <span class="co"># sets y-axis title</span></span>
+<span id="cb13-46"><a href="#cb13-46" aria-hidden="true" tabindex="-1"></a>  base_theme <span class="co"># uses base theme</span></span>
+<span id="cb13-47"><a href="#cb13-47" aria-hidden="true" tabindex="-1"></a></span>
+<span id="cb13-48"><a href="#cb13-48" aria-hidden="true" tabindex="-1"></a>p5_lollipop <span class="co"># shows plot 5</span></span></code><button title="Copy to Clipboard" class="code-copy-button"><i class="bi"></i></button></pre></div>
 <div class="cell-output-display">
 <div>
 <figure class="figure">
